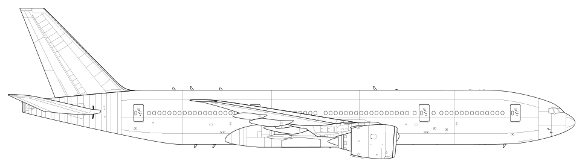
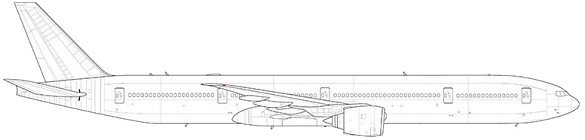
boeing 777 new sprite

diff --git a/shilka2/Aircrafts.cs b/shilka2/Aircrafts.cs
@@ -1489,7 +1489,7 @@ namespace shilka2
                 aircraftType = "boeing777",
                 aircraftName = "Боинг 777",
                 hitPoint = 100,
-                size = new int[] { 585, 164 },
+                size = new int[] { 585, 140 },
                 speed = 8,
                 minAltitude = minAltitudeForLargeAircraft,
                 cantEscape = true,
